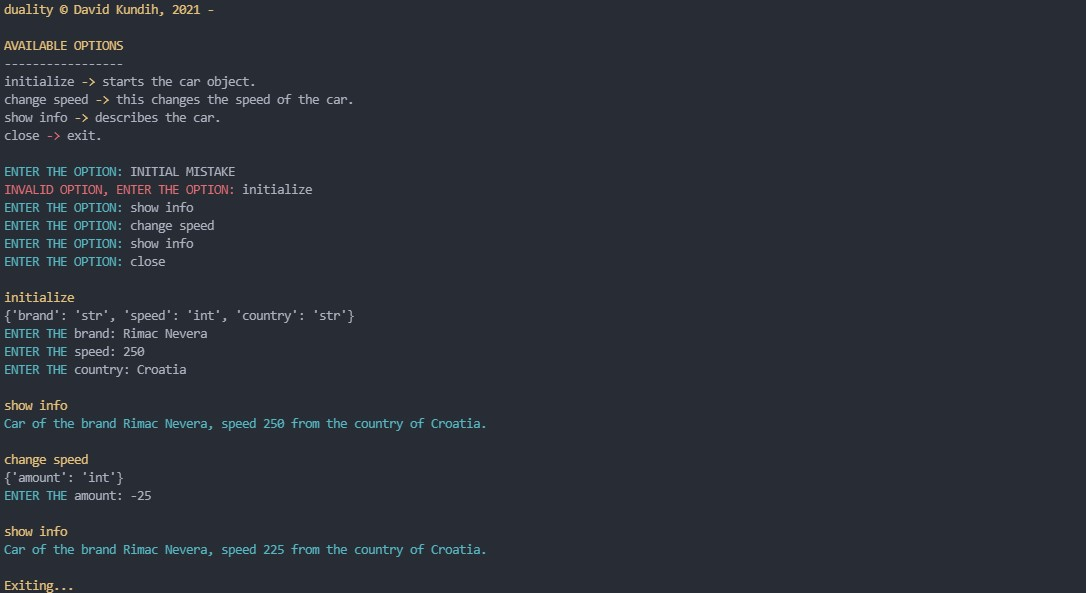
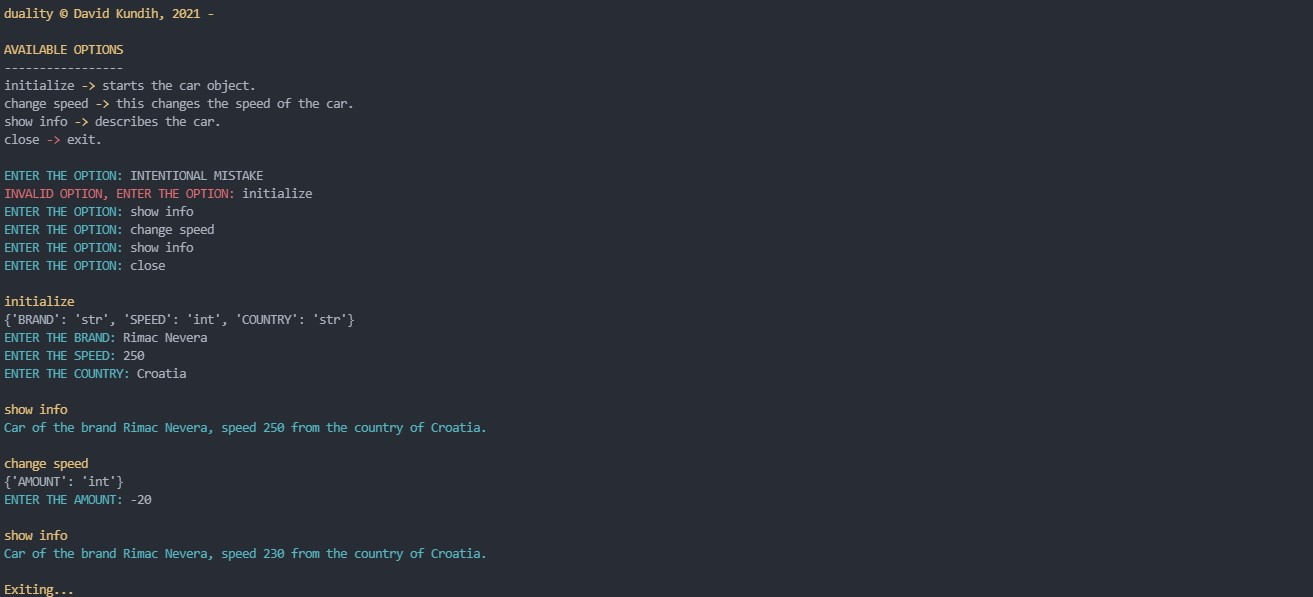
v5.3.3.

diff --git a/duality/decorators/dualityapp.py b/duality/decorators/dualityapp.py
@@ -27,16 +27,16 @@ class DualityApp(metaclass = Meta):
     COLORSET (self.custom_color_mode template)
     ________
     
-    self.colorset = {
-        'credit' : 'Fy',
-        'display_headline' : 'Fy',
-        'display_message' : 'Fc',
-        'output_message' : 'Fy',
-        'enter_message' : 'Fc',
-        'tmp_name_list' : 'Fy',
-        'tmp_func' : 'Fc',
-        'warning' : 'Fr',
-        'exit_message' : 'Fy',
+    colorset = {
+        'credit' : 'Fy', - credit pop-up color.
+        'display_headline' : 'Fy', - headline of the menu color.
+        'display_message' : 'Fc', - enter the option color.
+        'output_message' : 'Fy', - confirmation of choice color (DEPRECATED).
+        'enter_message' : 'Fc', - input variables color.
+        'tmp_name_list' : 'Fy', - headline of chosen option color.
+        'tmp_func' : 'Fc', - output of the chosen option color.
+        'warning' : 'Fr', - general warning and error handling color.
+        'exit_message' : 'Fy', - exit out of the application color.
     }
     '''
 
@@ -703,7 +703,8 @@ class DualityApp(metaclass = Meta):
 
         - variable - name of the function argument input is being passed as.
         - type - type of the data being passed ('int', 'float', 'str' and 'list' supported.)
-        # DEFAULT: DualityApp.store(variable : StringType = '', type : StringType = 'str'.)
+        - overwrite - custom text that overwrites the variable name when shown in the CLI.
+        # DEFAULT: DualityApp.store(variable : StringType = '', type : StringType = 'str', overwrite : StringType = None.)
         '''
 
         if overwrite == None:

diff --git a/_testassets/T_customColoring.py b/_testassets/T_customColoring.py
@@ -1,0 +1,40 @@
+### TEST ENV ###
+import duality
+import time
+from logistics.plugins.coloring import paint_text
+
+myset = {
+    'credit' : 'Fy', 
+    'display_headline' : 'Fr', 
+    'display_message' : 'Fr', 
+    'output_message' : 'Fr',
+    'enter_message' : 'Fr', 
+    'tmp_name_list' : 'Fr',
+    'tmp_func' : 'Fy',
+    'warning' : 'Fr',
+    'exit_message' : 'Fy'
+    }
+
+app = duality.DualityApp()
+
+class University:
+
+    @app.entry(option_name = 'create', option_description = 'creates the university.')
+    def __init__(
+        self,
+        name = app.store('name', 'str', 'NAME'),
+        headquarters = app.store('headquarters', 'str', 'HEADQUARTERS'),
+        students = app.store('students', 'int', 'STUDENTS')
+        ):
+        self.name = name
+        self.headquarters = headquarters
+        self.students = students
+        
+    @app.entry(option_name = 'promote', option_description = 'creates a promotion of the university.', print_val = True)
+    def show(self):
+        return f'{self.name} with headquartes in {self.headquarters} and {self.students} students.'
+         
+if __name__ == '__main__':
+    paint_text(text = '\n>>> Executed on: ' + str(duality.__version__) + ' <<<', color = 'Fy', print_trigger = True)
+    time.sleep(3)
+    app.script(type = 'dynamic', break_key = 'close', color_mode = 'custom', custom_color_mode = myset)

diff --git a/_testassets/T_staticScript.py b/_testassets/T_staticScript.py
@@ -7,15 +7,15 @@ app = duality.DualityApp()
 
 class App:
 
-    @app.entry(option_name = 'zbrajanje', option_description = 'zbraja vrijednosti.')
-    def zbrajanje(x = app.store('x', 'float',), y = app.store('y', 'float')):
+    @app.entry(option_name = 'add', option_description = 'adds values.', print_val = True)
+    def zbrajanje(x = app.store('x', 'float', 'FIRST NUMBER'), y = app.store('y', 'float', 'SECOND NUMBER')):
         rez = x + y
-        return print('Zbroj je:', rez)
+        return rez
 
-    @app.entry(option_name = 'oduzimanje', option_description = 'oduzima vrijednosti.')
-    def oduzimanje(x = app.store('x', 'int') , y = app.store('y', 'int')):
+    @app.entry(option_name = 'subtract', option_description = 'subtracts values.', print_val = True)
+    def oduzimanje(x = app.store('x', 'int', 'FIRST NUMBER') , y = app.store('y', 'int', 'SECOND NUMBER')):
         rez = x - y
-        return print('Razlika je:', rez)
+        return rez
 
 if __name__ == '__main__':
     paint_text(text = '\n>>> Executed on: ' + str(duality.__version__) + ' <<<', color = 'Fy', print_trigger = True)

diff --git a/duality/__init__.py b/duality/__init__.py
@@ -16,16 +16,16 @@ AVAILABLE FEATURES IN THE PACKAGE:
     COLORSET (self.custom_color_mode template)
     ________
     
-    self.colorset = {
-        'credit' : 'Fy',
-        'display_headline' : 'Fy',
-        'display_message' : 'Fc',
-        'output_message' : 'Fy',
-        'enter_message' : 'Fc',
-        'tmp_name_list' : 'Fy',
-        'tmp_func' : 'Fc',
-        'warning' : 'Fr',
-        'exit_message' : 'Fy',
+    colorset = {
+        'credit' : 'Fy', - credit pop-up color.
+        'display_headline' : 'Fy', - headline of the menu color.
+        'display_message' : 'Fc', - enter the option color.
+        'output_message' : 'Fy', - confirmation of choice color (DEPRECATED).
+        'enter_message' : 'Fc', - input variables color.
+        'tmp_name_list' : 'Fy', - headline of chosen option color.
+        'tmp_func' : 'Fc', - output of the chosen option color.
+        'warning' : 'Fr', - general warning and error handling color.
+        'exit_message' : 'Fy', - exit out of the application color.
     }
 
 	track (OBJECT/DECORATOR)

diff --git a/_testassets/T_dynamicScript.py b/_testassets/T_dynamicScript.py
@@ -8,13 +8,13 @@ app = duality.DualityApp()
 class Car:
 
     @app.entry(option_name = 'initialize', option_description = 'starts the car object.')
-    def __init__(self, brand = app.store('brand', 'str'), speed = app.store('speed', 'int'), country = app.store('country', 'str')):
+    def __init__(self, brand = app.store('brand', 'str', 'BRAND'), speed = app.store('speed', 'int', 'SPEED'), country = app.store('country', 'str', 'COUNTRY')):
         self.brand = brand
         self.speed = speed
         self.country = country
 
     @app.entry(option_name = 'change speed', option_description = 'this changes the speed of the car.')
-    def set_name(self, amount = app.store('amount', 'int')):
+    def set_name(self, amount = app.store('amount', 'int', 'AMOUNT')):
         self.speed += amount
         return self.speed
 

diff --git a/_testassets/T_dynamicWheel.py b/_testassets/T_dynamicWheel.py
@@ -8,13 +8,13 @@ app = duality.DualityApp()
 class Car:
 
     @app.entry(option_name = 'initialize', option_description = 'starts the car object.')
-    def __init__(self, brand = app.store('brand', 'str'), speed = app.store('speed', 'int'), country = app.store('country', 'str')):
+    def __init__(self, brand = app.store('brand', 'str', 'BRAND'), speed = app.store('speed', 'int', 'SPEED'), country = app.store('country', 'str', 'COUNTRY')):
         self.brand = brand
         self.speed = speed
         self.country = country
 
     @app.entry(option_name = 'change speed', option_description = 'this changes the speed of the car.')
-    def set_name(self, amount = app.store('amount', 'int')):
+    def set_name(self, amount = app.store('amount', 'int', 'AMOUNT')):
         self.speed += amount
         return self.speed
 

diff --git a/duality/misc/_meta.py b/duality/misc/_meta.py
@@ -12,7 +12,7 @@ __credits__ = [
 
 ]
 __license__ = 'Copyright © 2021- David Kundih. All rights reserved. Licensed under the Apache License, Version 2.0 | For more details about the license and terms of use visit the official duality documentation linked at https://github.com/dkundih/duality and https://pypi.org/project/duality'
-__version__ = '5.3.2'
+__version__ = '5.3.3'
 __documentation__ = 'https://github.com/dkundih/duality | https://pypi.org/project/duality'
 __contact__ = 'dakundih@unin.hr | kundihdavid@gmail.com'
 __donate__ = 'https://patreon.com/dkundih | https://buymeacoffee.com/dkundih'

diff --git a/_testassets/T_staticWheel.py b/_testassets/T_staticWheel.py
@@ -8,7 +8,7 @@ app = duality.DualityApp()
 class Car:
 
     @app.entry(option_name = 'change speed', option_description = 'this changes the speed of the car.', print_val = True)
-    def set_name(speed = 0, amount = app.store('amount', 'int')):
+    def set_name(speed = 0, amount = app.store('amount', 'int', 'AMOUNT')):
         speed += amount
         return speed
 

diff --git a/README.md b/README.md
@@ -16,22 +16,36 @@ Use permitted according to the terms of use and conditions set by the attached l
 
 **Example of use - SCRIPT**
 
-Example code over a Car object. - DualityApp.script (v5.2.0)
+Example code over a Car object. - DualityApp.script (v5.3.3)
 <img src='https://raw.githubusercontent.com/dkundih/duality/main/_logistics/T_dynamicScript1.jpg'/>
 
-Example use in the terminal. - DualityApp.script (v5.2.0)
+Example use in the terminal. - DualityApp.script (v5.3.3)
 <img src='https://raw.githubusercontent.com/dkundih/duality/main/_logistics/T_dynamicScript2.jpg'/>
 
 
 **Example of use - WHEEL**
 
-Example code over a Car object. - DualityApp.wheel (v5.2.0)
+Example code over a Car object. - DualityApp.wheel (v5.3.3)
 <img src='https://raw.githubusercontent.com/dkundih/duality/main/_logistics/T_dynamicWheel1.jpg'/>
 
-Example use in the terminal. - DualityApp.wheel (v5.2.0)
+Example use in the terminal. - DualityApp.wheel (v5.3.3)
 <img src='https://raw.githubusercontent.com/dkundih/duality/main/_logistics/T_dynamicWheel2.jpg'/>
 
 Visit my Data Library at https://github.com/dkundih/DataLibrary in order to see the demonstration of use in practical examples.
+
+**Example of use - APPLY CUSTOM COLORING**
+
+Example code for the creation of a university with custom coloring defined in the 'myset' dictionary. (v5.3.3)
+
+NOTE: Fore coloring is defined as F(c, m, y, k, r, g, b) - for example, 'Fr' stands for fore coloring in red.
+NOTE: Background coloring is defined as B(c, m, y, k, r, g, b) - for example, 'Br' stands for background coloring in red.
+NOTE: Dictionary keys must be named as shown, only coloring values are subject to change.
+NOTE: In order to apply custom coloring, define color_mode = 'custom', custom_color_mode = your_dictionary_name_here.
+
+<img src='https://raw.githubusercontent.com/dkundih/duality/main/_logistics/T_customColoring1.jpg'/>
+
+Example use in the terminal with custom coloring applies. (v5.3.3)
+<img src='https://raw.githubusercontent.com/dkundih/duality/main/_logistics/T_customColoring2.jpg'/>
 
 **Installation**
 

diff --git a/CHANGELOG.md b/CHANGELOG.md
@@ -519,3 +519,7 @@ CHANGELOG
 
 5.3.2 (21/08/2022)
 - rework of custom coloring in wheel resolved.
+
+5.3.3 (21/08/2022)
+- added docstrings and improved code clarity.
+- added more examples to README.
